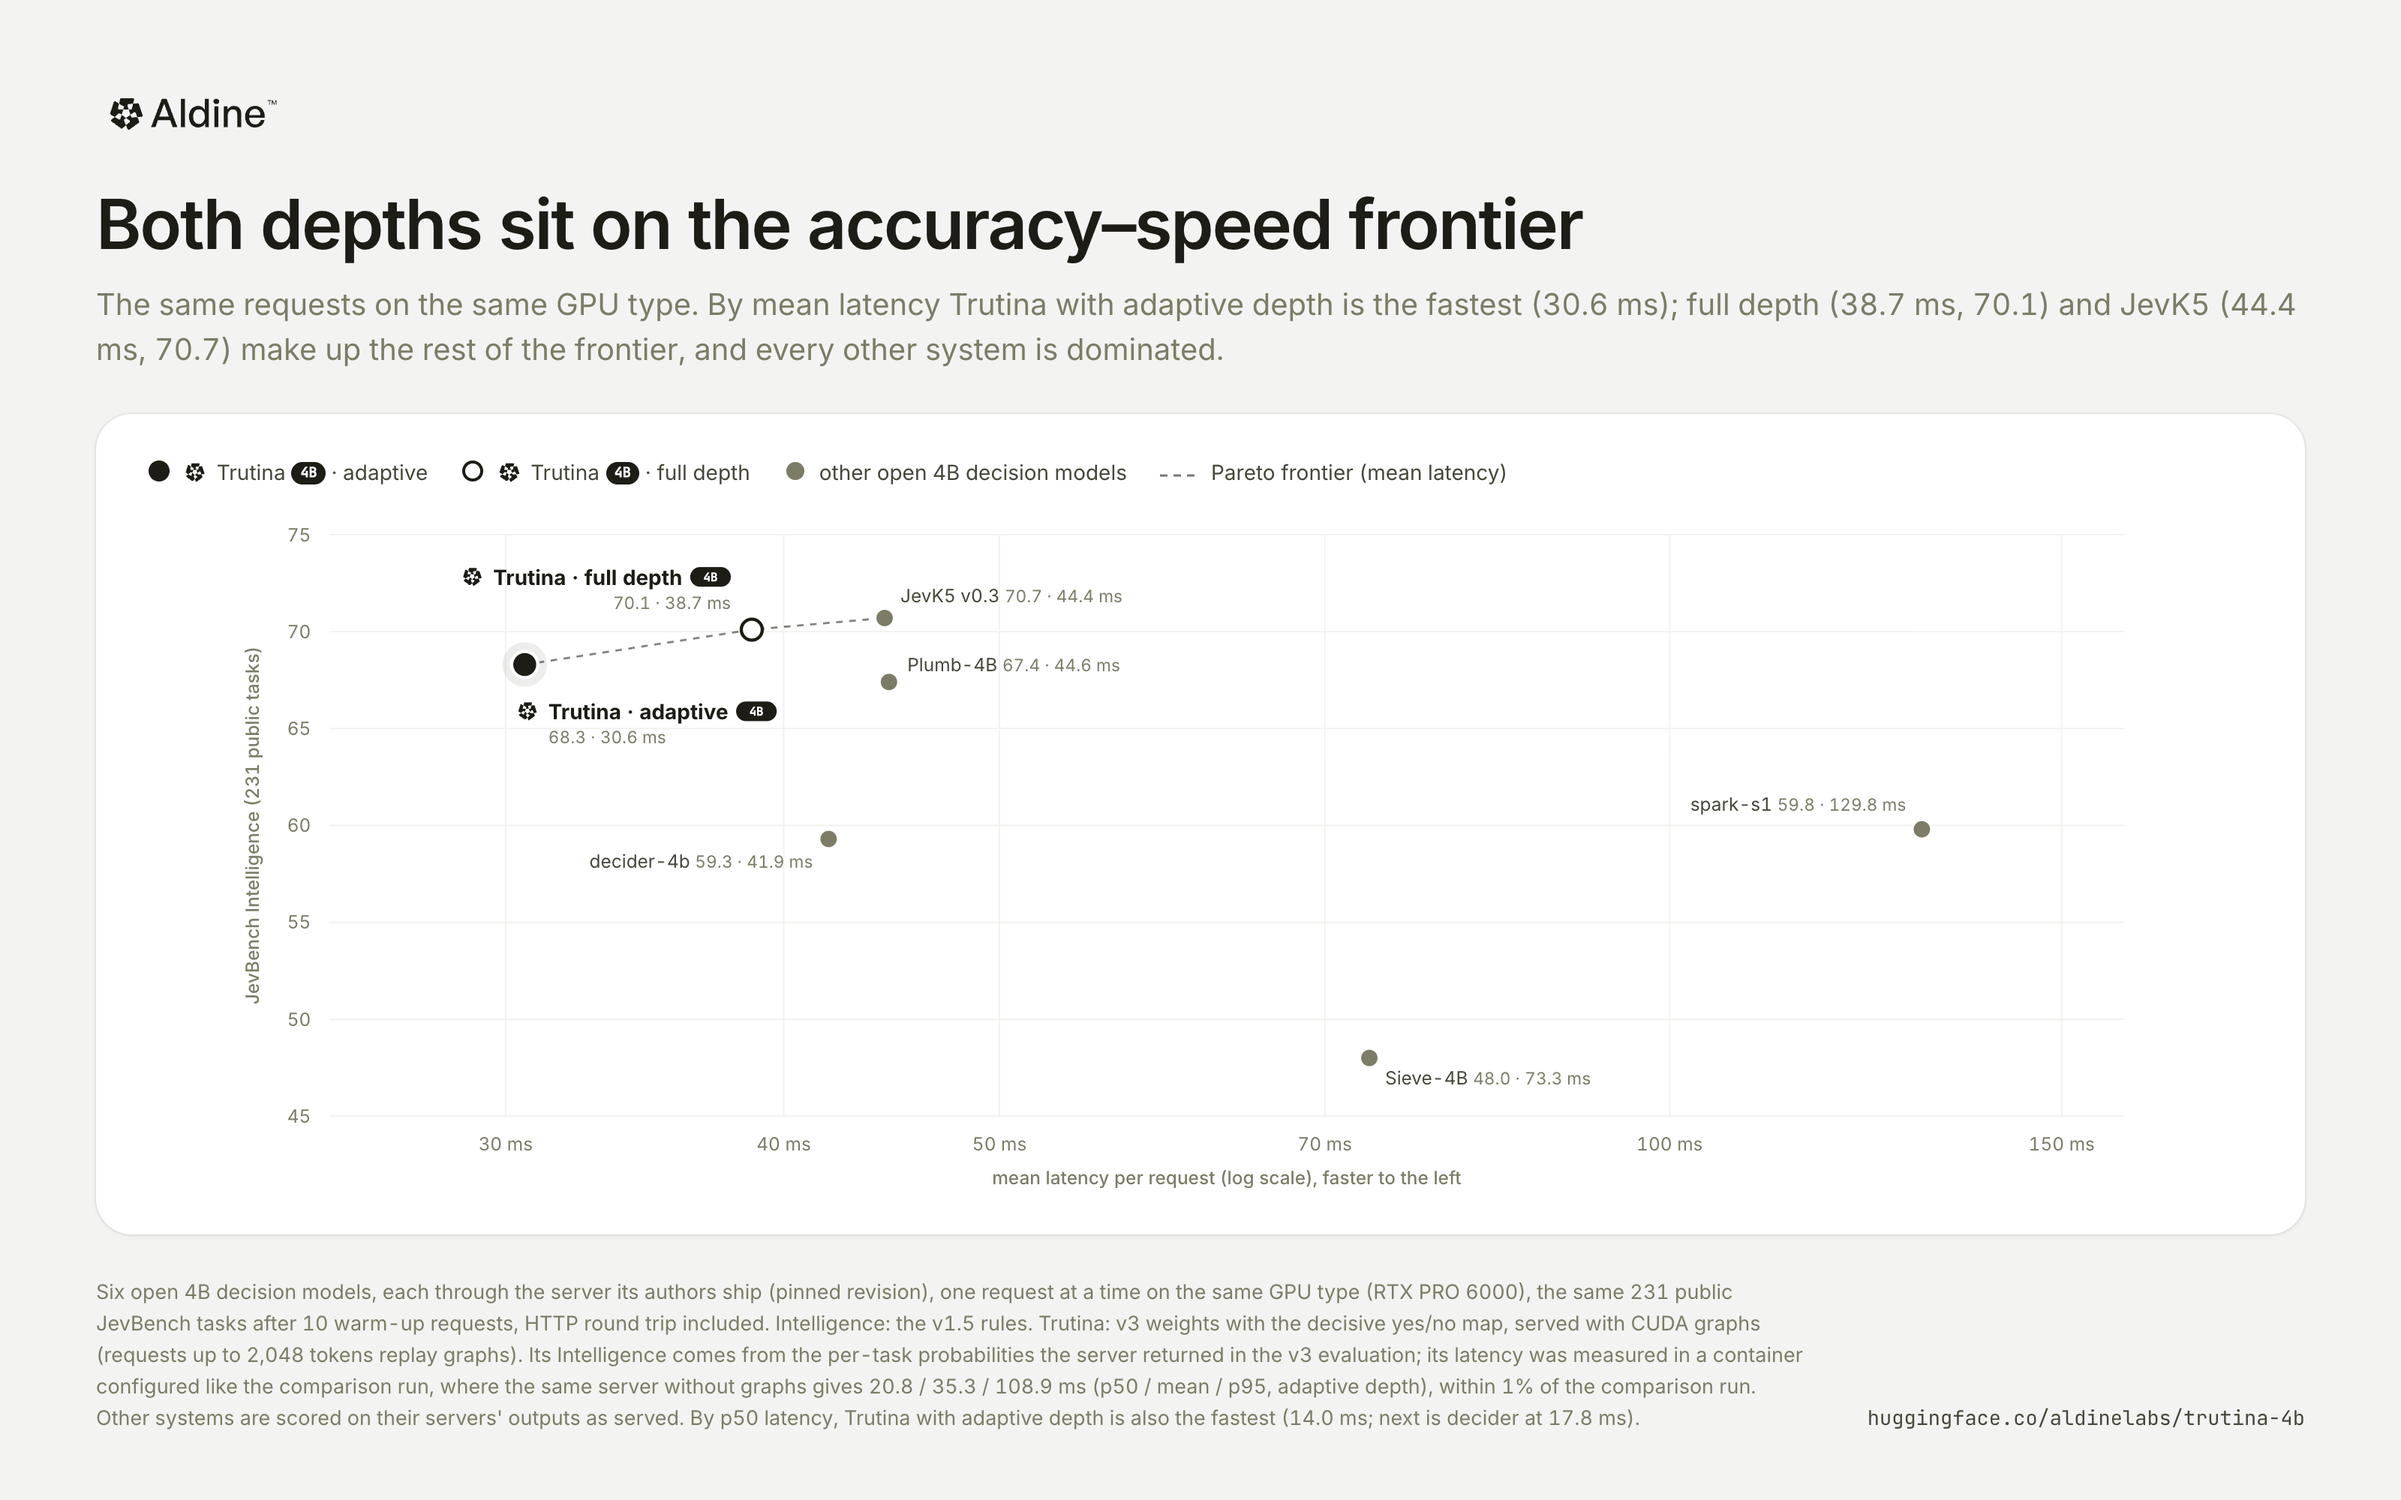
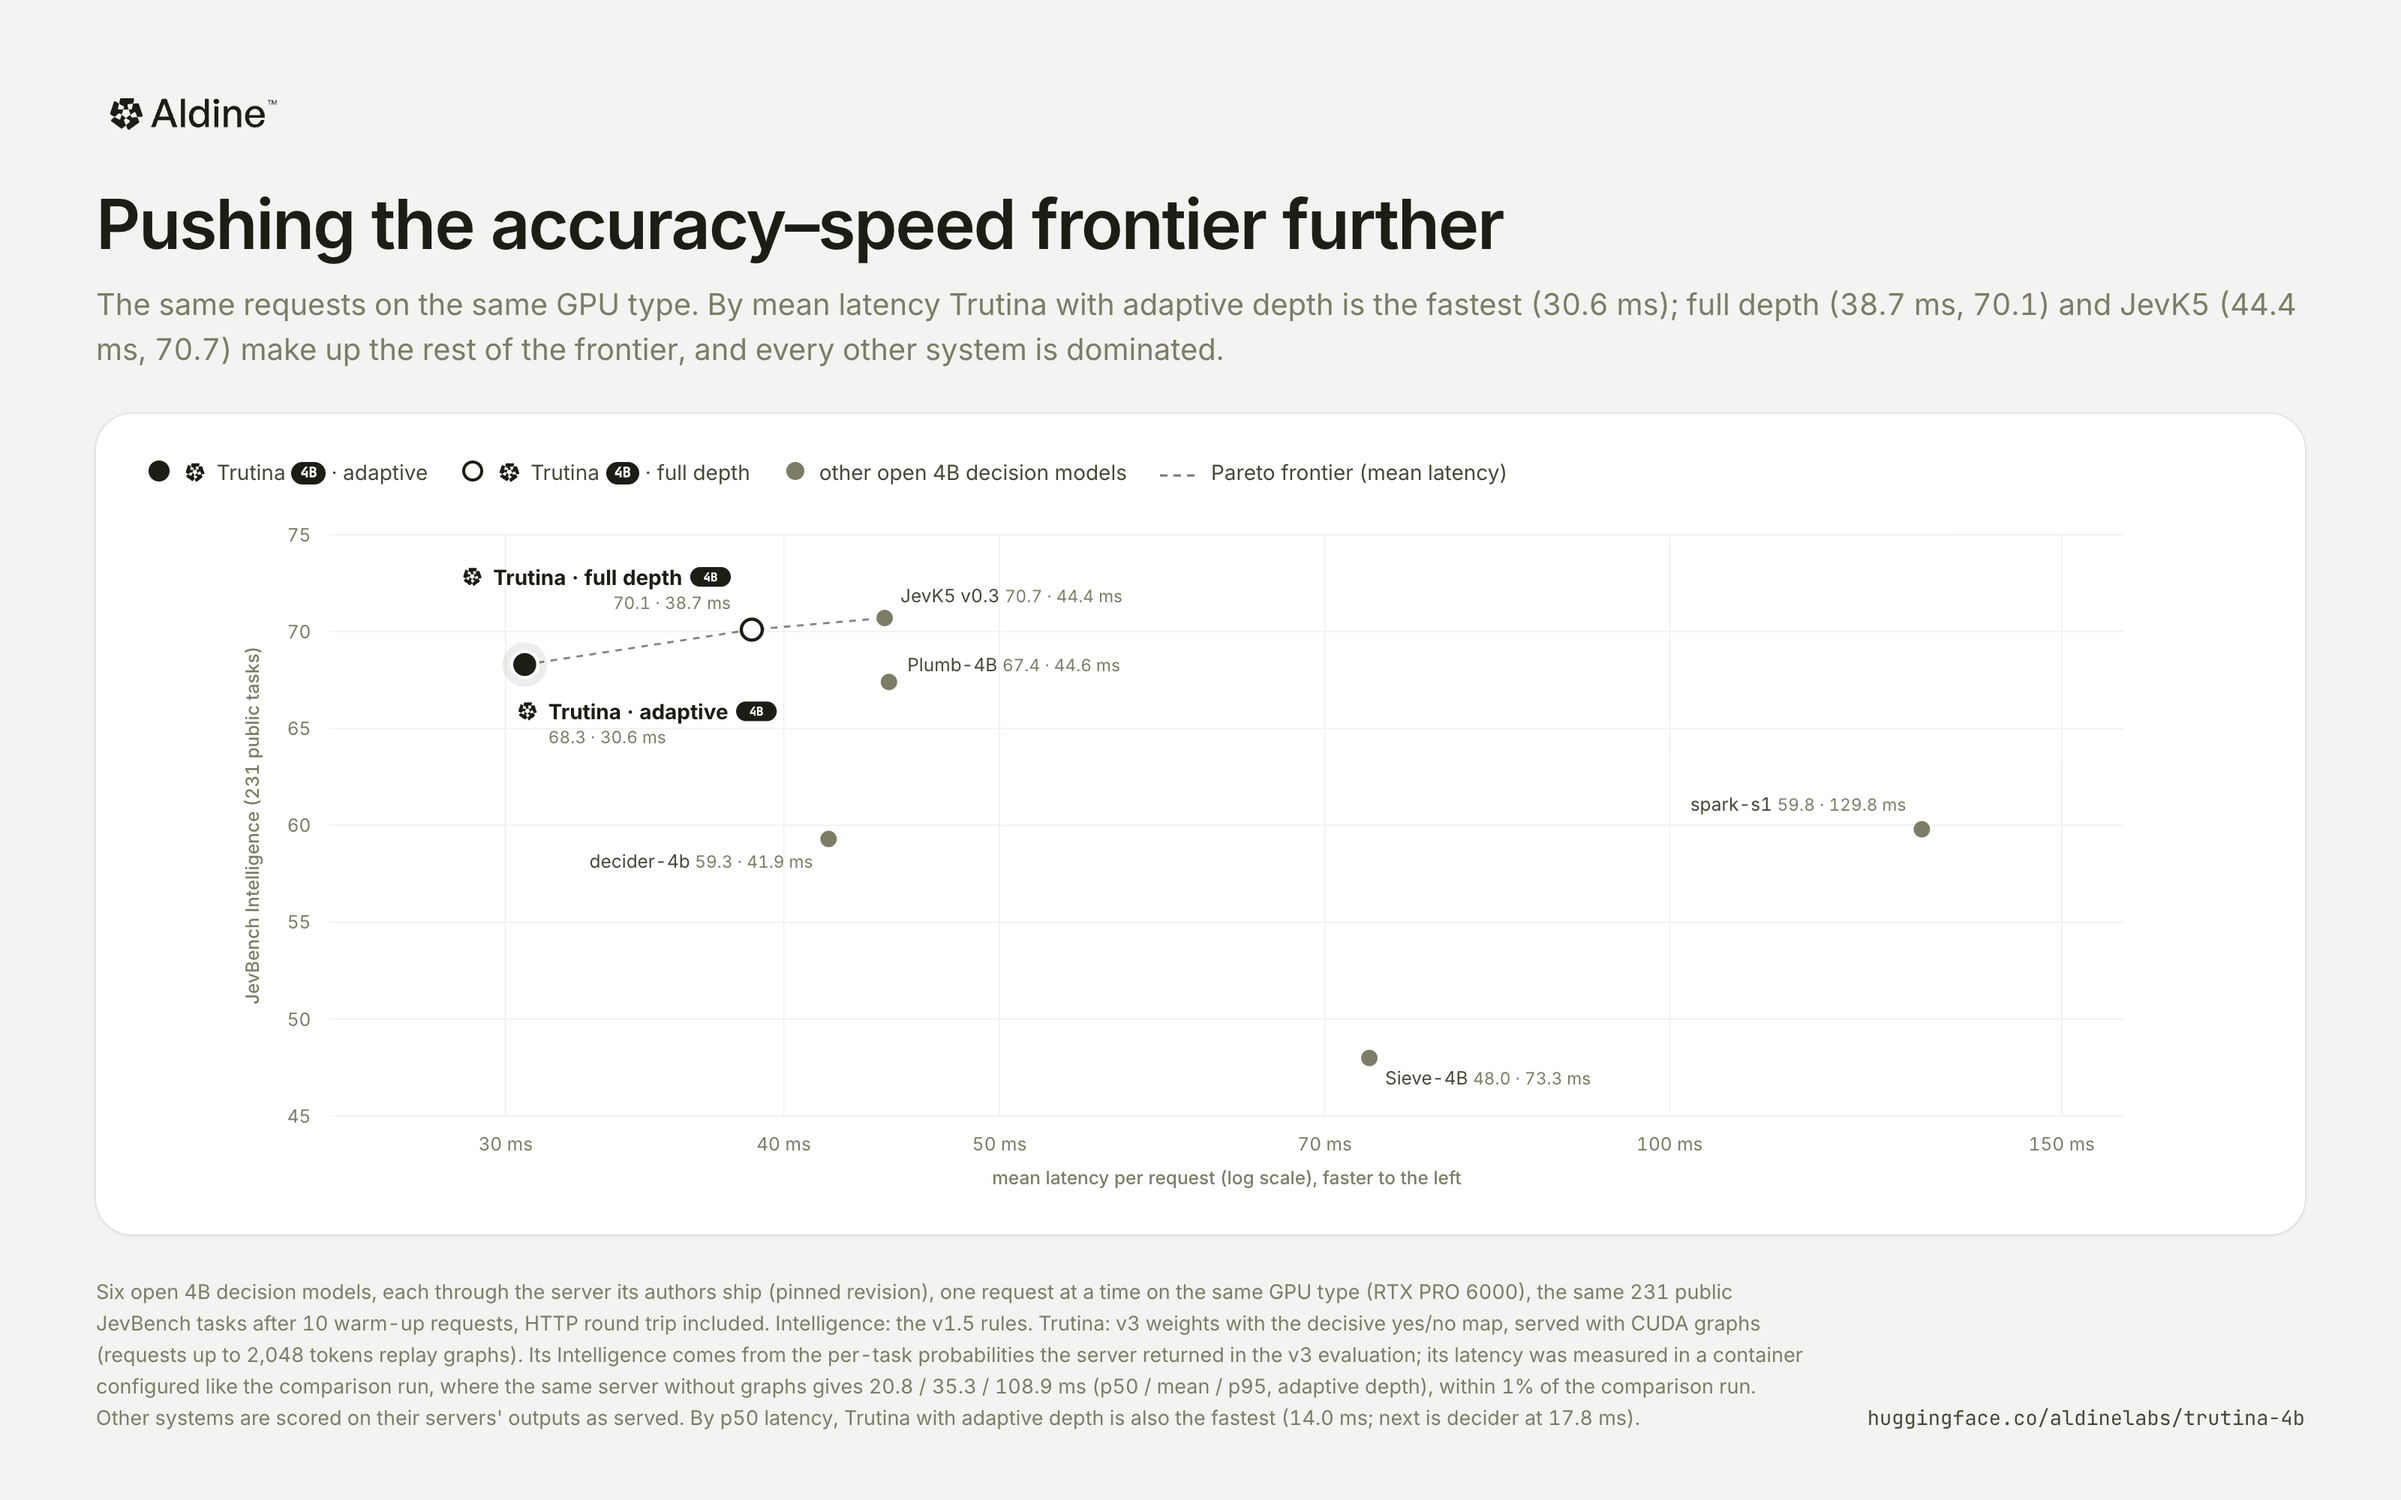
docs: pareto chart title, pushing the accuracy-speed frontier further

Changed region(s): [[0.0312, 0.124, 0.6562, 0.186]]

diff --git a/assets/charts/charts.html b/assets/charts/charts.html
@@ -168,12 +168,12 @@ function pareto() {
     <span><i><svg width="16" height="16"><circle cx="8" cy="8" r="6" fill="var(--muted)"/></svg></i>${zh ? "其他开放 4B 决策模型" : "other open 4B decision models"}</span>
     <span><i><svg width="26" height="10"><line x1="0" x2="26" y1="5" y2="5" stroke="var(--fg)" stroke-width="1.6" stroke-dasharray="5 4" opacity=".6"/></svg></i>${zh ? "帕累托前沿（平均延迟）" : "Pareto frontier (mean latency)"}</span></div>`;
   return frame(zh ? {
-    title: "两种深度都在准确与速度的帕累托前沿上",
+    title: "进一步推进准确率与速度的帕累托前沿",
     sub: "同一批请求、同型号 GPU。以平均延迟计，Trutina 自适应深度最快（30.6 ms），完整深度（38.7 ms，70.1）与 JevK5（44.4 ms，70.7）构成前沿的其余部分；其他系统均被支配。",
     body: `<div class="card">${legend}${svgTag(W, H)}${g}</svg></div>`,
     src: `${SAME_RUN_ZH}Intelligence 按 v1.5 规则计分。${US_ZH}若改用 p50 延迟，Trutina 自适应深度同样最快（14.0 ms，次快为 decider 的 17.8 ms）。`,
   } : {
-    title: "Both depths sit on the accuracy–speed frontier",
+    title: "Pushing the accuracy–speed frontier further",
     sub: "The same requests on the same GPU type. By mean latency Trutina with adaptive depth is the fastest (30.6 ms); full depth (38.7 ms, 70.1) and JevK5 (44.4 ms, 70.7) make up the rest of the frontier, and every other system is dominated.",
     body: `<div class="card">${legend}${svgTag(W, H)}${g}</svg></div>`,
     src: `${SAME_RUN_EN} Intelligence: the v1.5 rules. ${US_EN} By p50 latency, Trutina with adaptive depth is also the fastest (14.0 ms; next is decider at 17.8 ms).`,
